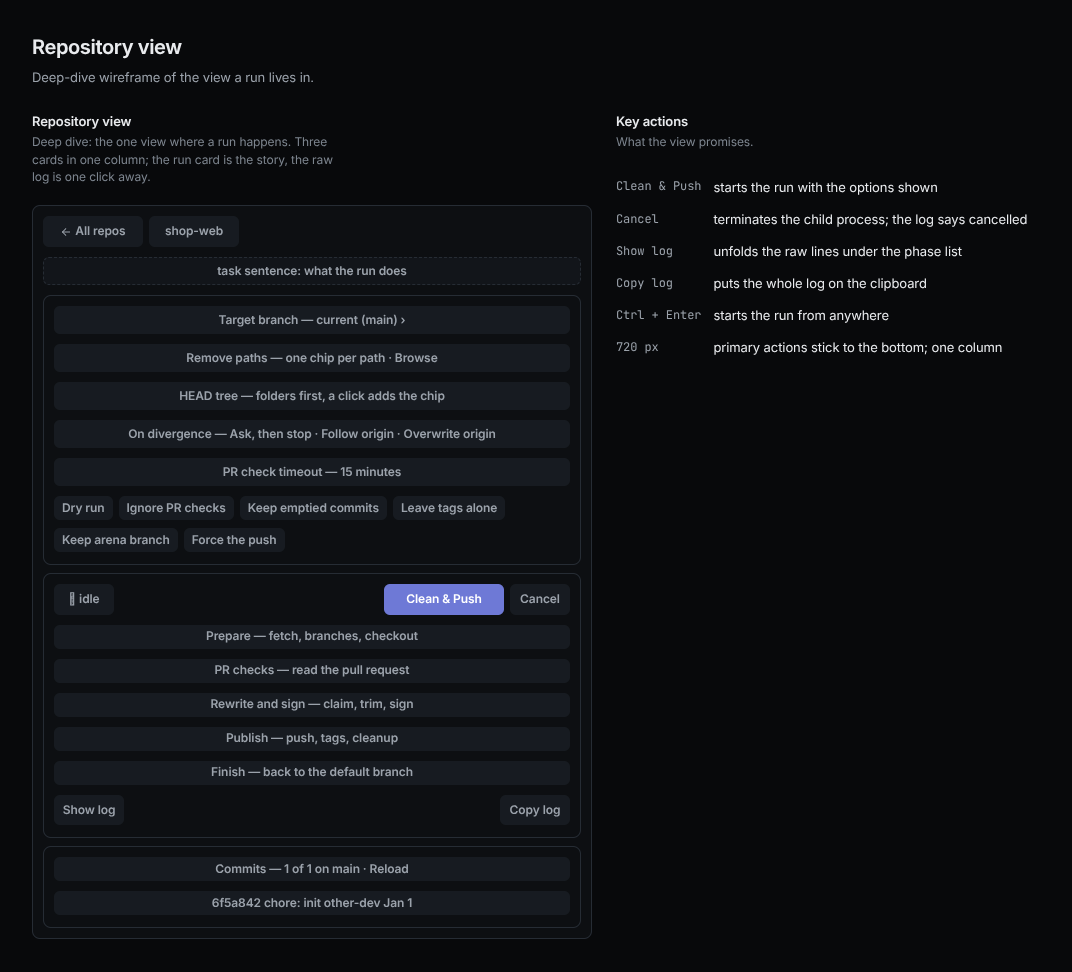
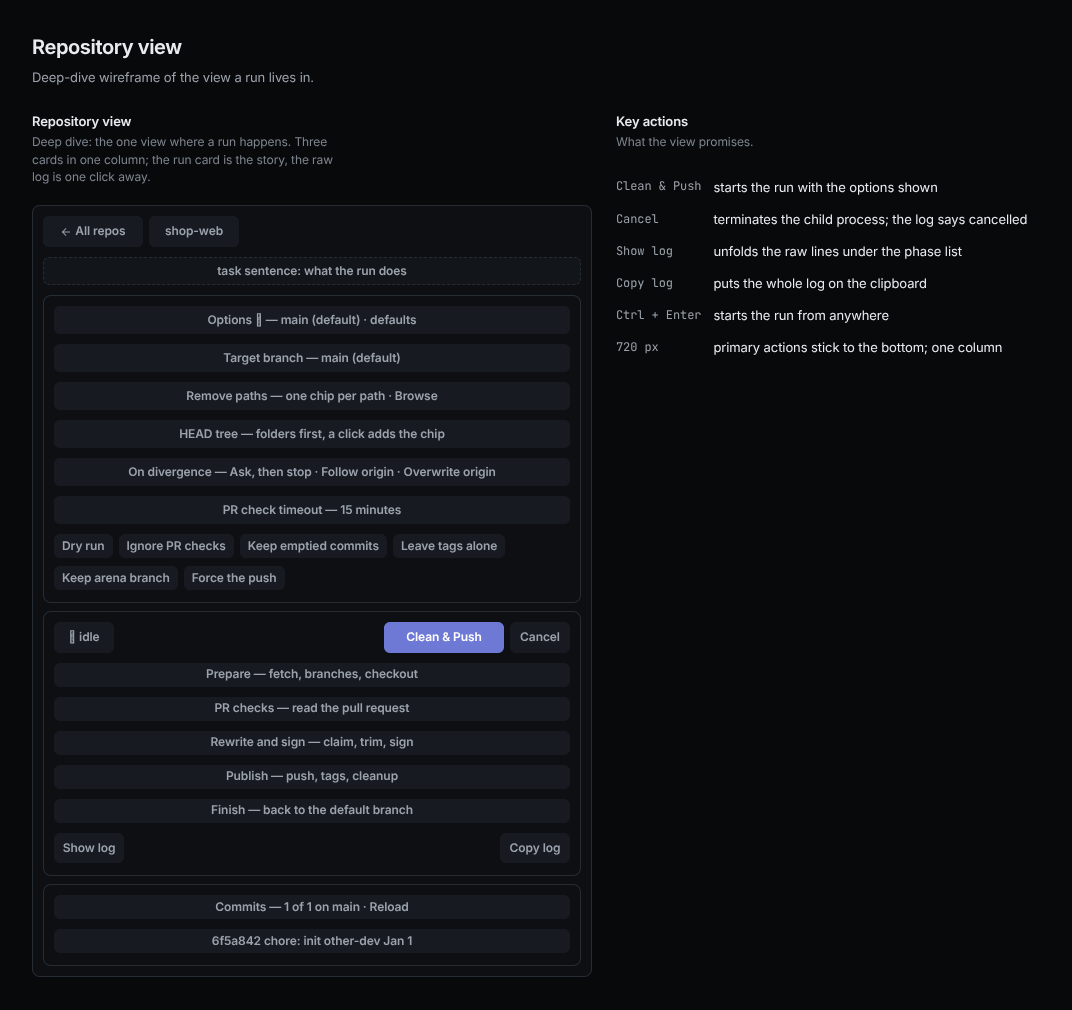
feat(ui): fold the options card as a whole

diff --git a/ui/static/index.html b/ui/static/index.html
@@ -328,21 +328,16 @@
   .opt-label label, .opt-label span.lbl { font-weight: 560; font-size: var(--fs-2); }
   .opt-label .desc { color: var(--dim); font-size: var(--fs-1); }
 
-  /* the branch row folds away on a phone and sits inline on a wide screen */
-  .branch-opt > summary { display: none; }
-  .branch-opt .opt-sum {
-    display: flex; align-items: center; gap: 8px; cursor: pointer; list-style: none;
-    font-size: var(--fs-2); font-weight: 560; padding: 2px 0;
-  }
-  .branch-opt .opt-sum::-webkit-details-marker { display: none; }
-  .branch-opt .opt-sum .pill { margin-left: auto; }
-  .branch-opt .opt-sum .caret { color: var(--dim); transition: transform .12s; }
-  .branch-opt[open] .opt-sum .caret { transform: rotate(90deg); }
-  /* the pill is the collapsed stand-in; open on a wide screen it only repeats the select */
-  @media (min-width: 981px) {
-    .branch-opt[open] .opt-sum #branch-now { display: none; }
-    .branch-opt[open] .opt-sum .caret { margin-left: auto; }
-  }
+  /* the whole options card folds from its head; closed, the head carries the
+     branch pill and a one-line summary of what differs from the defaults */
+  .fold-head { width: 100%; border: 0; border-bottom: 1px solid var(--line); background: none; color: inherit; font: inherit; text-align: left; cursor: pointer; }
+  .fold-head:hover { background: var(--surface-2); }
+  .fold-head[aria-expanded="false"] { border-bottom: 0; }
+  .fold-head .fold-title { font-size: var(--fs-2); font-weight: 600; }
+  .fold-head .caret { display: inline-flex; color: var(--dim); transition: transform .12s; }
+  .fold-head[aria-expanded="true"] .caret { transform: rotate(90deg); }
+  .fold-head[aria-expanded="true"] .pill, .fold-head[aria-expanded="true"] .hint { display: none; }
+  .options[hidden] { display: none; }
 
   .chips { display: flex; flex-wrap: wrap; gap: 6px; align-items: center; min-height: 34px; padding: 4px 6px; border: 1px solid var(--line-2); border-radius: 8px; background: var(--surface-2); }
   .chips:focus-within { border-color: #3d4655; box-shadow: 0 0 0 3px var(--accent-soft); }
@@ -527,8 +522,6 @@
 
   @media (max-width: 980px) {
     :root { --pad: 16px; }
-    .branch-opt > summary { display: flex; }
-    .branch-opt .opt-body { padding-top: 8px; }
     .detail { grid-template-columns: 1fr; }
     .sidebar { display: none; }
     .options { grid-template-columns: 1fr; }
@@ -678,14 +671,18 @@
         <p class="task-note" id="task-note">Rewrites the arena branch, signs every commit, pushes the default branch, moves the tags and deletes the local arena branch. Pull request checks have to pass first.</p>
 
         <section class="card" id="options-card">
+          <button type="button" class="card-head fold-head" id="options-fold" aria-expanded="true" aria-controls="options">
+            <span class="fold-title">Options</span>
+            <span class="pill mono" id="branch-now">current</span>
+            <span class="hint" id="options-sum">defaults</span>
+            <span class="grow"></span>
+            <span class="caret"><span class="ico-svg" data-icon="chevron-right" aria-hidden="true"></span></span>
+          </button>
           <div class="card-body options" id="options">
-            <details class="opt branch-opt" id="opt-branch" open>
-              <summary class="opt-sum"><span>Target branch</span><span class="pill mono" id="branch-now">current</span><span class="caret"><span class="ico-svg" data-icon="chevron-right" aria-hidden="true"></span></span></summary>
-              <div class="opt-body">
-                <div class="opt-label"><label class="sr-only" for="branch">Target branch</label><span class="desc">clean it directly, no PR</span></div>
-                <select class="field mono-field" id="branch"></select>
-              </div>
-            </details>
+            <div class="opt" id="opt-branch">
+              <div class="opt-label"><label for="branch">Target branch</label><span class="desc">clean it directly, no PR</span></div>
+              <select class="field mono-field" id="branch"></select>
+            </div>
             <div class="opt" id="opt-paths">
               <div class="opt-label"><label for="pathin">Remove paths</label><span class="desc">git filter-repo, every ref</span>
                 <button type="button" class="link-btn" id="browse" aria-expanded="false" aria-controls="tree">Browse</button></div>
@@ -707,7 +704,7 @@
               <input class="field mono-field" id="timeout" type="number" min="0" max="240" value="15">
             </div>
             <div class="opt" style="grid-column:1/-1">
-              <div class="opt-label"><span class="lbl">Options</span></div>
+              <div class="opt-label"><span class="lbl">Switches</span></div>
               <div class="toggles" id="toggles">
                 <button class="toggle" data-opt="dry_run" aria-pressed="false"
                   title="Prints every step it would take and writes nothing."><span class="sw"></span>Dry run <small>writes nothing</small></button>
@@ -1178,7 +1175,6 @@
     }
     $("branch").replaceChildren(...options);
     $("branch").value = state.branch;
-    $("branch-now").textContent = state.branch || `current (${s.branch || "?"})`;
   }
 
   async function refreshStatus() {
@@ -1302,12 +1298,31 @@
     return parts.join(" ");
   }
 
+  const SUMMARY_WORDS = [
+    ["dry_run", "dry run"], ["skip_pr_check", "ignore PR checks"], ["keep_empty", "keep emptied"],
+    ["no_tags", "leave tags"], ["keep_branch", "keep arena branch"], ["force", "force"],
+  ];
+  const DIVERGENCE_WORDS = { remote: "follow origin", local: "overwrite origin" };
+
+  function optionsSummary() {
+    const body = payload();
+    const bits = [];
+    if (state.paths.length) bits.push(`${state.paths.length} path${state.paths.length === 1 ? "" : "s"}`);
+    for (const [key, word] of SUMMARY_WORDS) if (body[key]) bits.push(word);
+    if (body.divergence !== "ask") bits.push(DIVERGENCE_WORDS[body.divergence] || body.divergence);
+    const minutes = Number($("timeout").value || 15);
+    if (minutes !== 15) bits.push(`${minutes} min`);
+    return bits.length ? bits.join(" · ") : "defaults";
+  }
+
   function renderCommand() {
     const line = commandLine();
     for (const id of ["start", "start-mobile"]) {
       $(id).title = `Runs: ${line}`;
       $(id).dataset.argv = line;
     }
+    $("options-sum").textContent = optionsSummary();
+    $("branch-now").textContent = $("branch").selectedOptions[0]?.textContent || "?";
   }
 
   // ------------------------------------------------------------------- jobs
@@ -2059,17 +2074,11 @@
     toast("reloaded");
   };
 
-  // the branch row folds on a phone; on a wide screen it is always open
-  const narrow = matchMedia("(max-width: 980px)");
-  const syncBranchOpen = () => {
-    const details = $("opt-branch");
-    if (!details.dataset.touched) details.open = !narrow.matches;
+  $("options-fold").onclick = () => {
+    const open = $("options").hidden;
+    $("options").hidden = !open;
+    $("options-fold").setAttribute("aria-expanded", String(open));
   };
-  $("opt-branch").querySelector("summary").addEventListener("click", () => {
-    $("opt-branch").dataset.touched = "1";
-  });
-  narrow.addEventListener("change", syncBranchOpen);
-  syncBranchOpen();
 
   $("copy").onclick = async () => {
     const text = [...$("log").querySelectorAll(".log-row")].map((r) => r.querySelector(".msg")?.textContent ?? "").join("\n");

diff --git a/scripts/walk.py b/scripts/walk.py
@@ -370,6 +370,19 @@ def keyboard_backspace_removes_a_chip(w: Walker, demo: Demo) -> None:
 
 
 @step("desktop")
+def options_card_folds_as_a_whole(w: Walker, demo: Demo) -> None:
+  assert w.page.is_visible("#options")
+  assert w.page.is_hidden("#options-sum")
+  w.click("#options-fold", 300)
+  assert w.page.is_hidden("#options")
+  assert w.page.is_visible("#options-sum")
+  assert w.page.is_visible("#branch-now")
+  assert w.page.get_attribute("#options-fold", "aria-expanded") == "false"
+  w.click("#options-fold", 300)
+  assert w.page.is_visible("#options")
+
+
+@step("desktop")
 def tree_selector_adds_a_folder_chip(w: Walker, demo: Demo) -> None:
   w.click("#browse", 500)
   assert w.count("#tree .tree-row") > 0

diff --git a/scripts/design_boards.py b/scripts/design_boards.py
@@ -315,7 +315,8 @@ def flow_board(_: dict[str, bytes]) -> str:
 
 def wireframe_board(_: dict[str, bytes]) -> str:
   options = (
-    block("Target branch — current (main) ›", height=28)
+    block("Options ▾ — main (default) · defaults", height=28)
+    + block("Target branch — main (default)", height=28)
     + block("Remove paths — one chip per path · Browse", height=28)
     + block("HEAD tree — folders first, a click adds the chip", height=28)
     + block(

diff --git a/tests/test_ui.py b/tests/test_ui.py
@@ -573,3 +573,6 @@ def test_the_tree_route_lists_one_level_of_head(
   page = ui.text("/")
   assert 'id="browse"' in page
   assert 'id="tree" role="tree"' in page
+  assert 'id="options-fold" aria-expanded="true" aria-controls="options"' in page
+  assert 'id="options-sum"' in page
+  assert not re.search(r"branch-opt|opt-sum|<details", page), "the branch-only fold"

diff --git a/docs/design.md b/docs/design.md
@@ -28,7 +28,7 @@ The one design record for the arena-cleanup web app. The sections follow the nem
 ## Screens and states
 
 - Dashboard: add bar, repository cards. Empty: a hint with the add command. Error: a banner above the cards. A card shows the branch, `N uncommitted` only when the clone is dirty, and the drift. The Remove X sits top right as a bare glyph. A red frame comes on hover, on press, and while armed.
-- Repository: options card, run card with the phase list and log, commits card. The page runs the full flow only; `strip` is a CLI command. Browse under Remove paths opens the HEAD tree of the clone, one level per request. A click on a row or its plus adds the chip. Log rows show the clock of the browser. Remove on a card arms on the first click and deletes the URL clone on the second. States: idle, running, done, failed, cancelled. The sidebar ends with Reset to origin, a two-click button that checks out the default branch and resets it hard.
+- Repository: options card, run card with the phase list and log, commits card. The options card folds from its head; closed, the head shows the branch pill and what differs from the defaults. The page runs the full flow only; `strip` is a CLI command. Browse under Remove paths opens the HEAD tree of the clone, one level per request. A click on a row or its plus adds the chip. Log rows show the clock of the browser. Remove on a card arms on the first click and deletes the URL clone on the second. States: idle, running, done, failed, cancelled. The sidebar ends with Reset to origin, a two-click button that checks out the default branch and resets it hard.
 - Settings: Identity (name, email, Save), GitHub sign-in and credential helper, signing cards, Claimed commits (two chip lists, Save). Below: About. Signing cards: gpg banner when gpg is missing, key list, create card, GitHub key steps. Disabled: Create key while gpg is missing. Error: the banner names the failed check. Each card loads on its own.
 - Offline: the service worker serves the shell; data requests fail with the normal error banner.
 - Loading and permission states: not run as separate checks.
@@ -73,6 +73,7 @@ The one design record for the arena-cleanup web app. The sections follow the nem
 - `sign-row`: label column of 120 px and a value column; on a phone the label takes a full row.
 - `sign-fields`: name and e-mail side by side; one column on a phone.
 - `banner`: `err`, `warn`, `ok` variants with an icon and one sentence of action.
+- `fold-head`: a card head that is one button with `aria-expanded` and `aria-controls`. The caret turns; the pill and the summary show only while closed.
 - `tree`: the path selector. Rows are `treeitem`s with `aria-level`; a folder row carries `aria-expanded` and loads its children on the first open. The trailing `tree-select` button toggles the path and reports `aria-pressed`. Rows and select buttons grow to 44 px on a phone.
 
 ## Accessibility and inclusion
@@ -126,6 +127,7 @@ The one design record for the arena-cleanup web app. The sections follow the nem
 - Accepted 2026-10-22: in a narrow cell a segmented control wraps whole buttons onto a second row, never words.
 - Accepted 2026-10-22: a shallow history. The dashboard is the root entry and a sub-view is at most one entry deep. One Back leaves a sub-view, the next one leaves the page.
 - Accepted 2026-10-22: no command switch on the repository page. A local rewrite without a push is a terminal task, so `strip` lives in the CLI alone.
+- Accepted 2026-10-22: the whole options card folds, not the Target branch row alone.
 - Accepted 2026-10-22: the primary button reads Clean & Push. The phase list keeps Publish for the push, tags, and cleanup step.
 - Accepted 2026-10-22: a tree selector for Remove paths. It reads `git ls-tree` of HEAD in the clone, so it works for path repositories and never calls GitHub. File contents stay out; a path only old commits carried stays a typed chip.
 - Accepted 2026-10-22: the card Remove X moves from the action row to the top right corner. At rest it is a bare glyph, so the primary button stands alone. The red frame returns on hover, on press, and while armed.

diff --git a/CHANGELOG.md b/CHANGELOG.md
@@ -39,5 +39,6 @@ and the project uses [Semantic Versioning](https://semver.org/spec/v2.0.0.html).
 - The repository page runs the full flow only. The Rewrite locally switch is gone, and `strip` stays a CLI command.
 - The card Remove X sits top right as a bare glyph. A red frame comes on hover, on press, and while armed.
 - The primary button reads Clean & Push on the card, the run card, and the phone bar.
+- The options card folds from its head. Closed, the head shows the branch pill and what differs from the defaults.
 - Browse under Remove paths opens the HEAD tree of the clone, one level per request. A click on a row or its plus adds the path chip; `GET /api/repos/<id>/tree?path=` serves the level.
 - The demo histories keep tests under `tests/` and the workflow under `.github/workflows/`, so the tree has folders to open.
